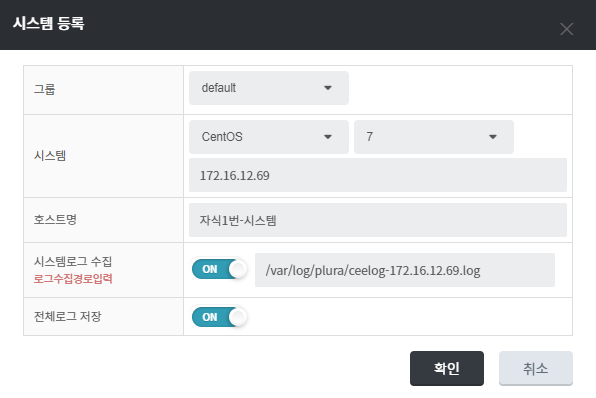
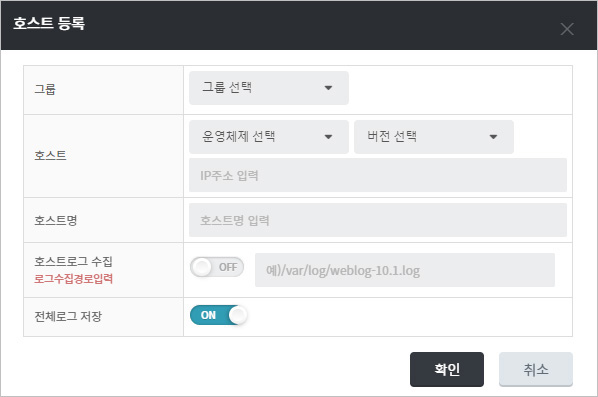
20230531-H1629

diff --git a/ko/plura/v5/install_agent/siem/plc/ko_logcol_system.md b/ko/plura/v5/install_agent/siem/plc/ko_logcol_system.md
@@ -68,12 +68,12 @@ Syslog 재시작
 
 ### 4. 원격지(자식) 서버 등록
 
-- 시스템  > 시스템 관리 > 로그 취합서버(부모) 선택 > 시스템 버튼을 클릭합니다.
+- 시스템  > 시스템 관리 > 로그 취합서버(부모) 선택 > 호스트 버튼을 클릭합니다.
 [![image](/docs/images/Ins_G/logCol_system/sys_3.png){: width="800" }](/docs/images/Ins_G/logCol_system/sys_3.png){:target="_blank"}
 
 <br />
 
-- 시스템 등록 팝업 > 원격지(자식) 서버 정보를 입력합니다.
+- 등록 팝업 > 원격지(자식) 서버 정보를 입력합니다.
 [![image](/docs/images/Ins_G/logCol_system/sys_4.png)](/docs/images/Ins_G/logCol_system/sys_4.png){:target="_blank"}
 
 <br />
@@ -85,5 +85,5 @@ Syslog 재시작
 
 ### 5. 수집된 로그 확인
 
-- 전체로그 > 시스템 메뉴에서 수집된 로그를 확인할 수 있습니다.
+- 전체로그 > 호스트 메뉴에서 수집된 로그를 확인할 수 있습니다.
 [![image](/docs/images/Ins_G/logCol_system/sys_6.png){: width="800" }](/docs/images/Ins_G/logCol_system/sys_6.png){:target="_blank"}

diff --git a/ko/plura/v5/install_agent/siem/agent/ko_lin_sys_audit.md b/ko/plura/v5/install_agent/siem/agent/ko_lin_sys_audit.md
@@ -51,5 +51,5 @@ product: Install_A_S
 
 활성화 한 Audit로그는 다음의 메뉴에서 확인하실 수 있습니다.
 
-- 필터탐지 > 시스템 > 채널 "Auditlog" 선택
-- 전체로그 > 시스템 > 채널 "Auditlog" 선택
+- 필터탐지 > 호스트 > 채널 "Auditlog" 선택
+- 전체로그 > 호스트 > 채널 "Auditlog" 선택
